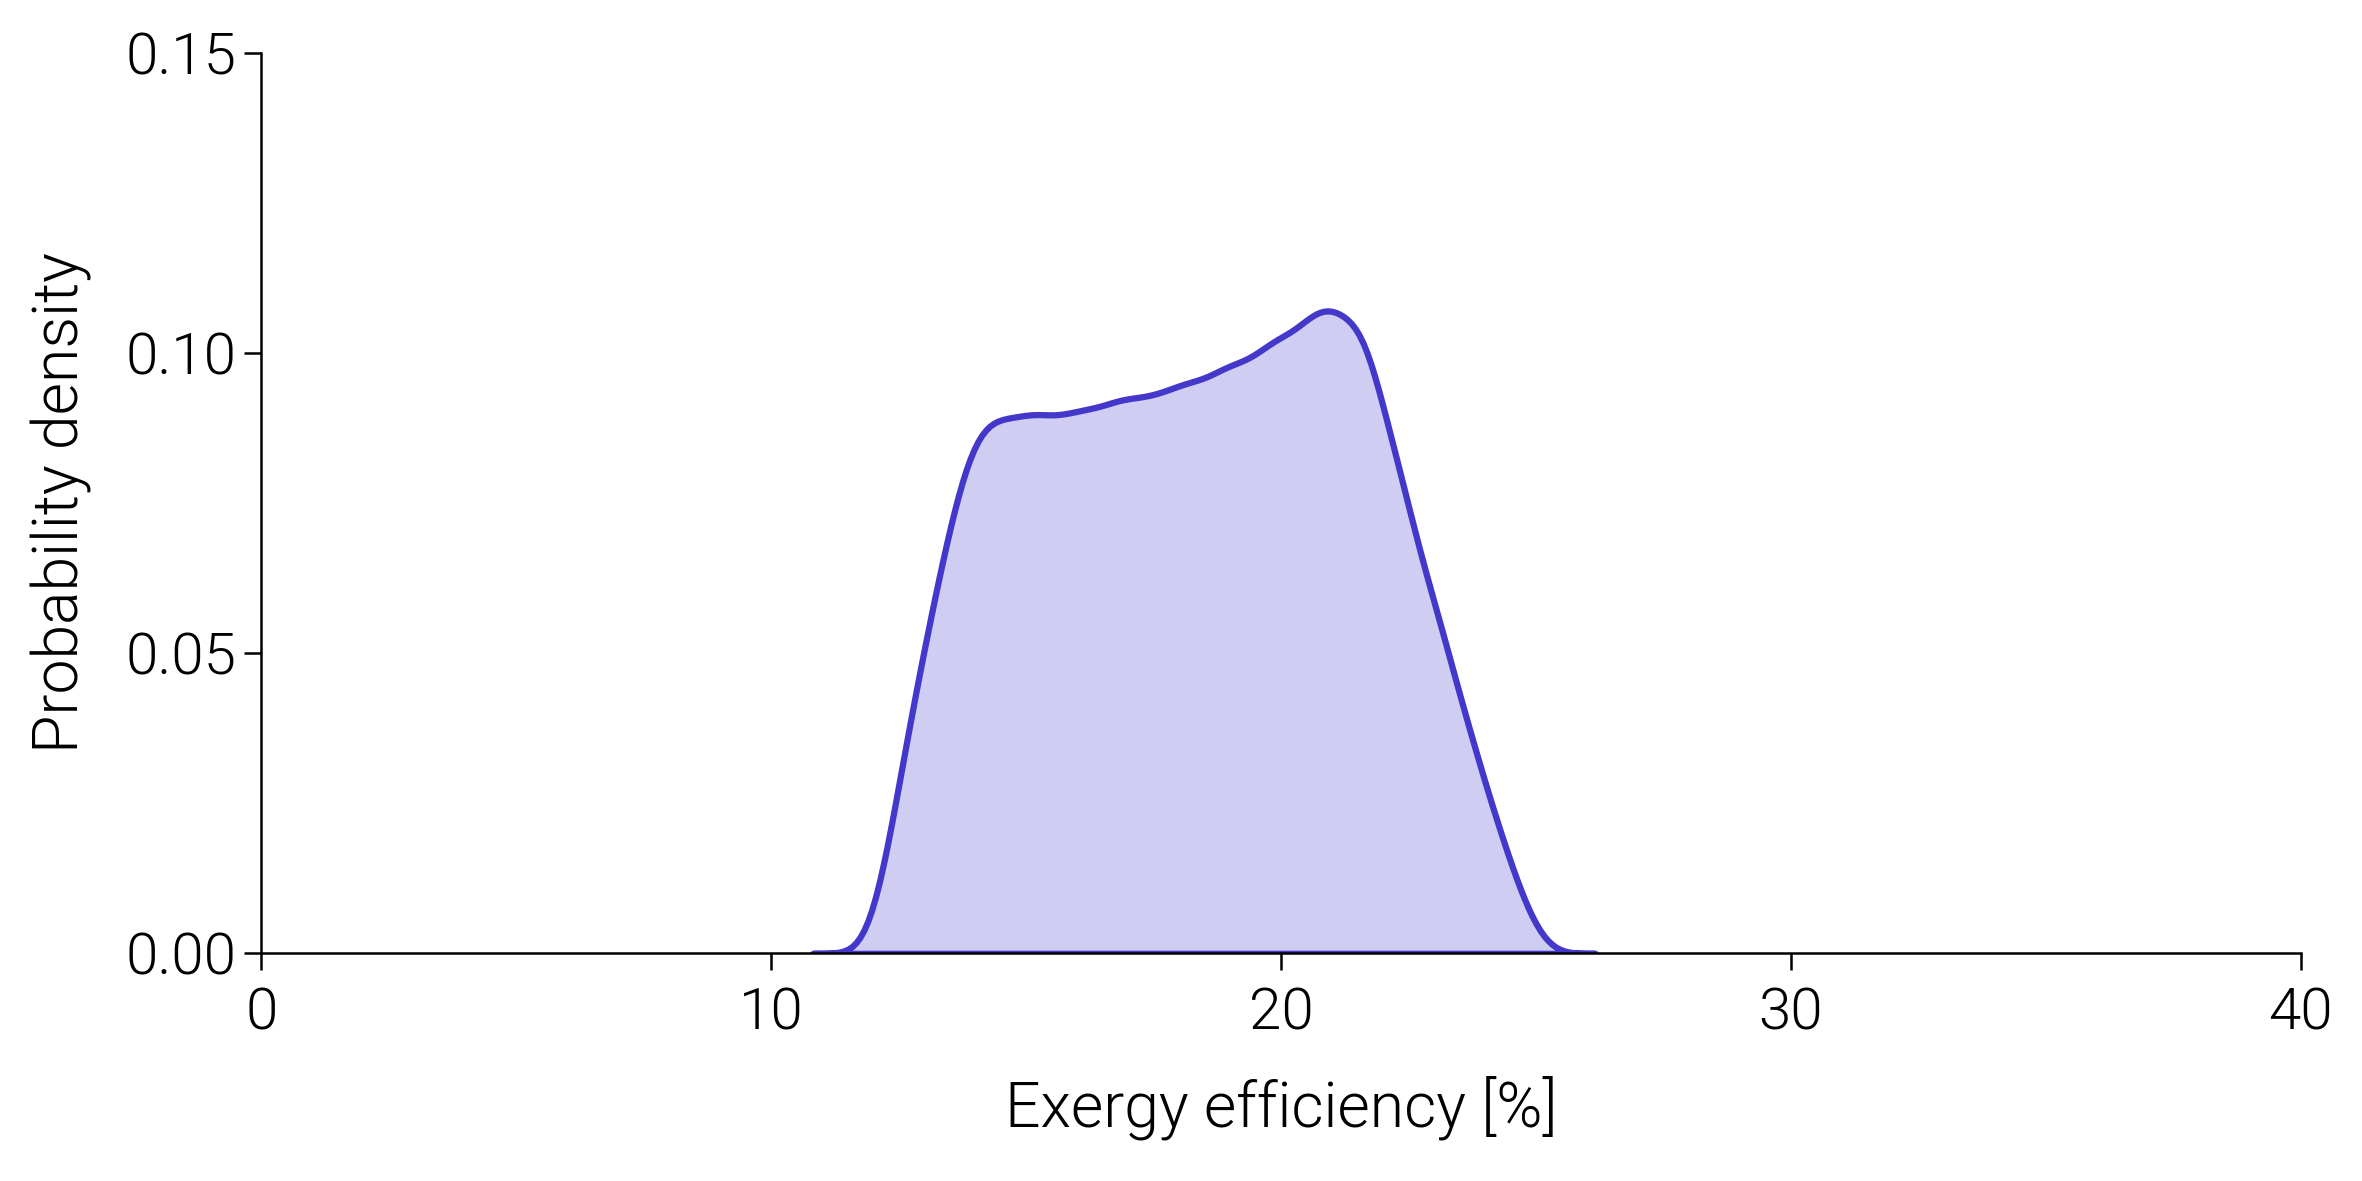
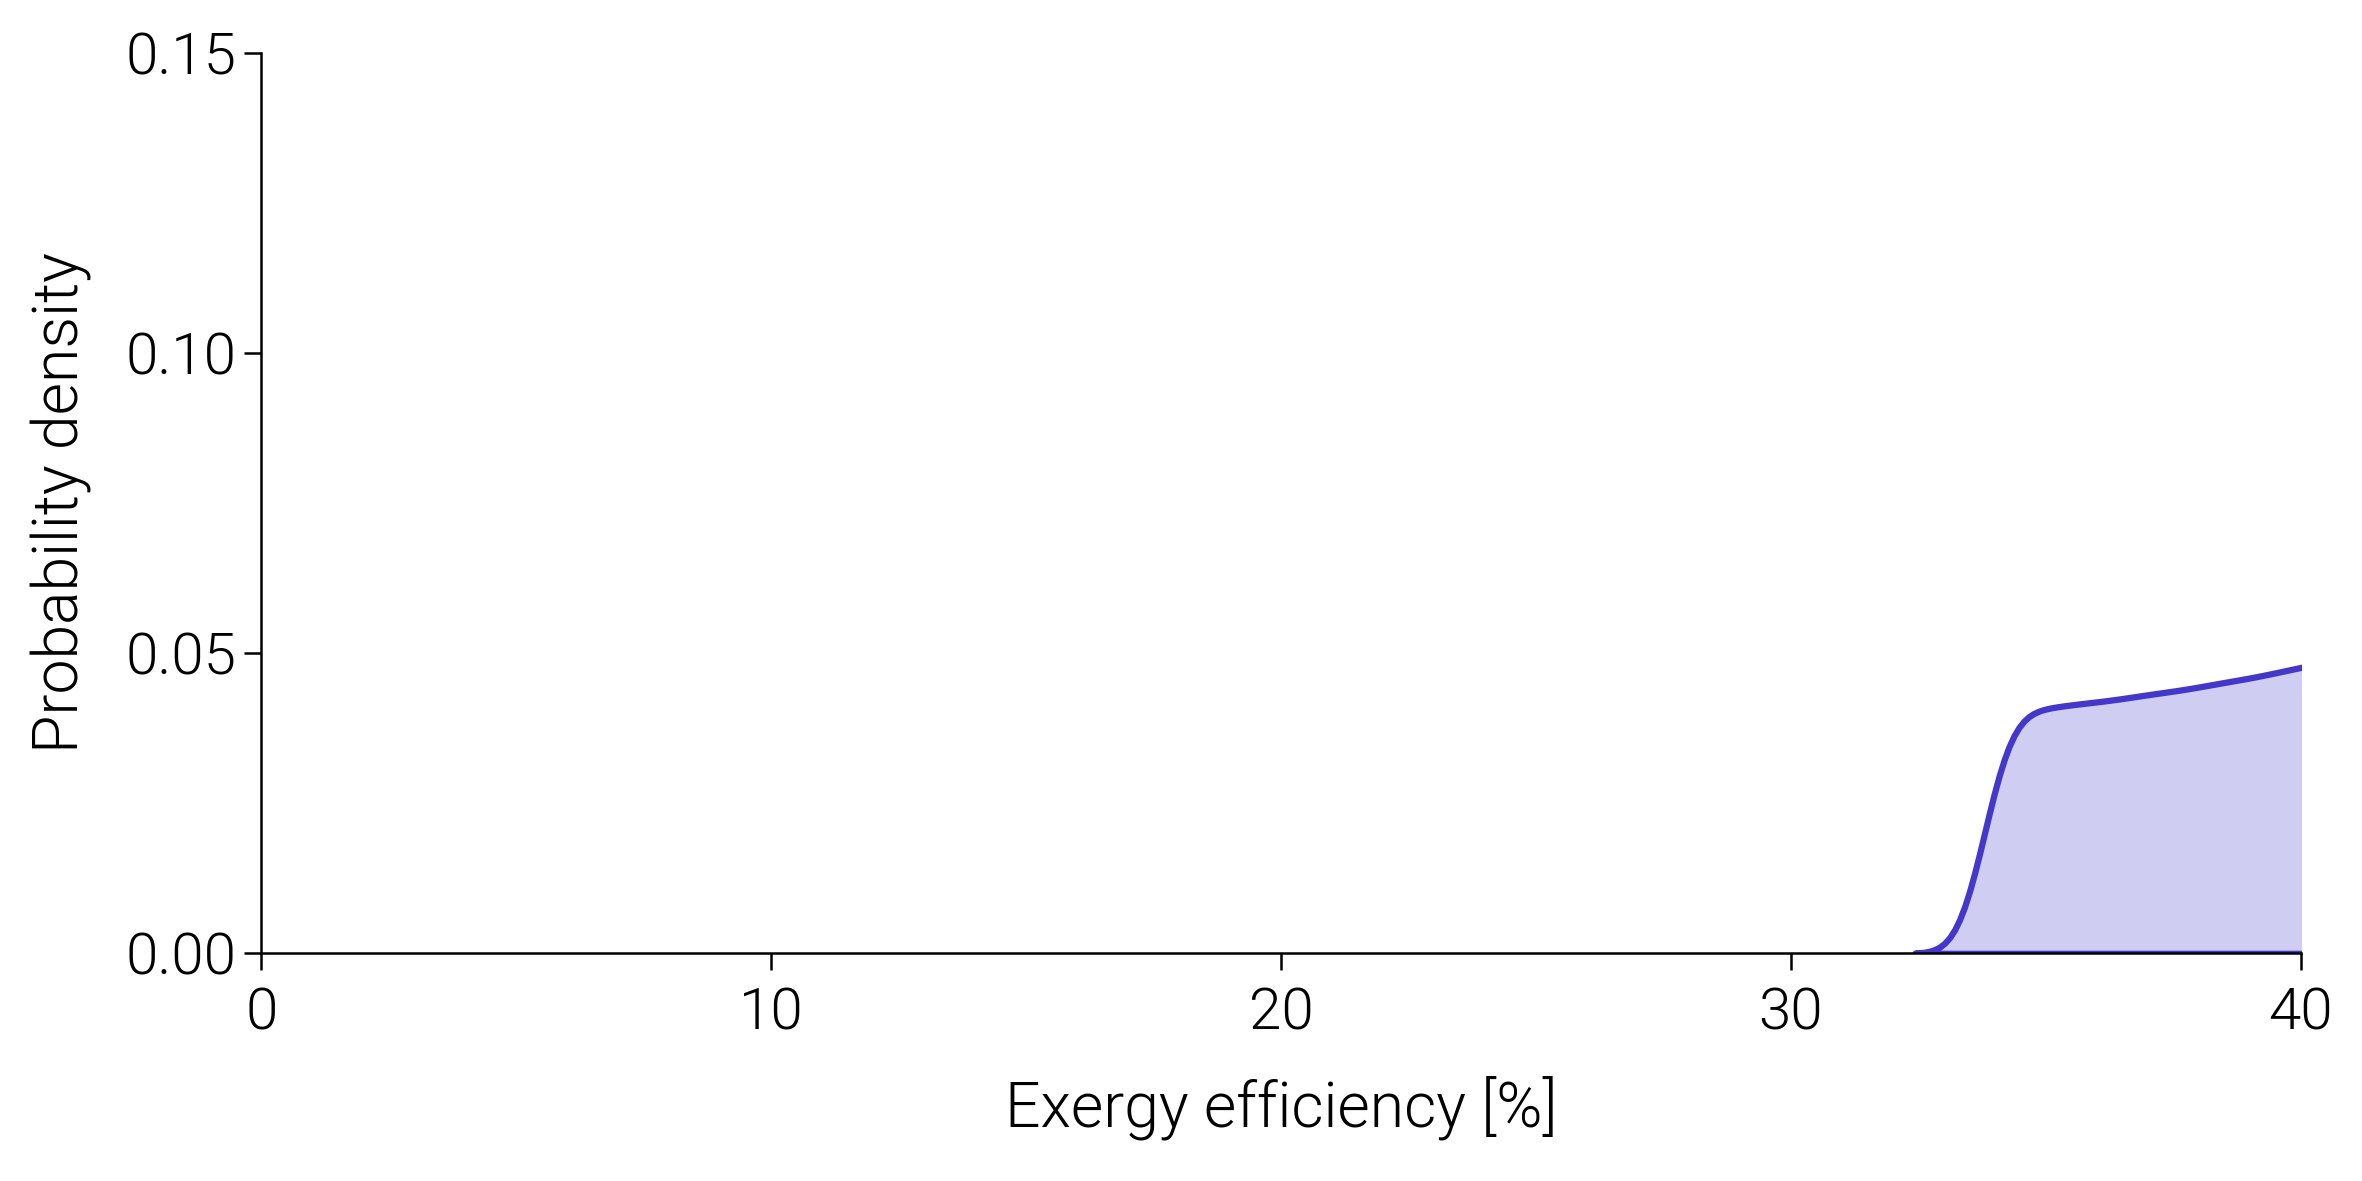
Refactor ASHP COP calculations and update simulation parameters for enhanced performance

Changed region(s): [[0.34, 0.2439, 0.6799, 0.823], [0.8036, 0.5487, 0.989, 0.823]]

diff --git a/ASHP_Monte.py b/ASHP_Monte.py
@@ -12,8 +12,8 @@ import dartwork_mpl as dm
 import seaborn as sns
 from scipy.stats import norm, uniform, triang, gamma
 import warnings
-from pprint import pprint
-
+warnings.filterwarnings("ignore", category=DeprecationWarning)
+warnings.filterwarnings("ignore", category=UserWarning)
 #%% 
 
 # 시뮬레이션 반복 횟수
@@ -21,56 +21,44 @@ num_simulations = 10000
 
 # 문제 정의
 problem = {
-    'num_vars': 4,
-    'names'   : ['Insulation thick [m]',  'Outdoor air temp [°C]', "Supply water temp [°C]", "COP [-]"],
+    'num_vars': 6,
+    'names'   : ['Load [W]', "dT_a_int [°C]", "dT_a_ext [°C]", "dT_r_int [°C]", "dT_r_ext [°C]", "T_a_room [°C]"],
     'bounds'  : [
-        [0.01, 0.1],    # x_ins      : 단열 두께 (m)
-        [enex.C2K(-10), enex.C2K(10)],    # T_oa: 실외 온도 (°C)
-        [enex.C2K(4), enex.C2K(10)],    # T_sw: 상수도 온도 (°C)
-        [1.5, 2.5],    # COP: COP
-        [10000, 100000]  # Q (W)
+        [1000,10000],
+        [9,12], # https://georgebrazilhvac.com/blog/what-temperature-should-my-central-air-conditioner-be-putting-out#:~:text=Your%20personal%20comfort%20should%20always,when%20you%20set%20your%20thermostat
+        [9,12],
+        [15,20],
+        [15,20],    
+        [20,25]
     ],
-    'dists': ['unif', 'unif', 'unif', 'unif']  # 분포 형상 (균등, 삼각, 정규)
+    'dists': ['unif', 'unif', 'unif', 'unif', 'unif', 'unif']  # 분포 형상 (균등, 삼각, 정규)
 }
 
 # Saltelli 방법을 사용하여 샘플 생성 -> 최종 샘플 개수는 num_simulations * (num_vars + 2) = 10000 * (5 + 2) = 70000
 param_values = saltelli.sample(problem, num_simulations, calc_second_order=True)
 
 # 엑서지 효율 저장 리스트
-ex_eff_HPB = []
-cop_list = []
-T_r_ext_list = []
+ex_eff_ASHP = []
 
 # 몬테카를로 시뮬레이션 및 엑서지 효율 계산
 for i in range(param_values.shape[0]):  
     # enex.ElectricASHP 객체 생성
-    ASHP = enex.HeatPumpASHP()
+    ASHP = enex.AirSourceHeatPump_heating()
 
     # 확률 변수에서 추출한 변수 값들 할당
-    ASHP.x_ins              = param_values[i, 0]  # 단열 두께
-    ASHP.T0                 = param_values[i, 1]  # 대류 열전달 계수
-    ASHP.T_w_sup            = param_values[i, 2]  # 상수도 온도
-    ASHP.Q_w_serv          = param_values[i, 3]  # 상수도 온도
+    ASHP.Q_r_int  = param_values[i, 0]  
+    ASHP.dT_a_int = param_values[i, 1]  
+    ASHP.dT_a_ext = param_values[i, 2]  
+    ASHP.dT_r_int = param_values[i, 3] 
+    ASHP.dT_r_ext = param_values[i, 4]  
     
-    # COP calculation
-    dT = ASHP.T_w_tank - ASHP.T0 # 온수 탱크 온도와 실외 온도 차이
-    ASHP.COP_hp             = 5.06-0.05*dT +0.00006*(dT**2) # https://www.notion.so/betlab/Model-based-flexibility-assessment-of-a-residential-heat-pump-pool-1af6947d125d8037a108e85bb6985dee?pvs=4
-    
-    
-    cop_list.append(ASHP.COP_hp)
-    
-
     # 시스템 업데이트 수행
     ASHP.system_update()
-    T_r_ext_list.append(ASHP.T_r_ext)
 
     # 엑서지 효율 계산
-    X_w_serv = ASHP.Xout 
-    E_fan    = ASHP.exergy_balance["external unit"]["in"]["E_fan"]
-    E_cmp    = ASHP.exergy_balance["refrigerant loop"]["in"]["E_cmp"]
+    X_eff  = (ASHP.X_a_int_out - ASHP.X_a_ext_out)/(ASHP.E_cmp + ASHP.E_fan_ext + ASHP.E_fan_int)
+    ex_eff_ASHP.append(X_eff)
     
-    eta_exergy = X_w_serv / (E_fan + E_cmp)
-    ex_eff_HPB.append(eta_exergy)
 
 #%%
 # 데이터 시각화
@@ -86,7 +74,7 @@ for ridx in range(nrows):
         idx = ridx * ncols + cidx
 
         # Plot histogram
-        sns.kdeplot(np.array(ex_eff_HPB) * 100, ax=ax, color='tw.indigo:700', fill=True, linewidth=0.75)
+        sns.kdeplot(np.array(ex_eff_ASHP) * 100, ax=ax, color='tw.indigo:700', fill=True, linewidth=0.75)
 
         # tick limits 
         ax.set_xlim(xmin - xmar, xmax + xmar)
@@ -97,7 +85,7 @@ for ridx in range(nrows):
         ax.set_yticks(np.arange(ymin, ymax + yint, yint))
         
         # print x, y range
-        print(f"Exergy efficiency range: {min(ex_eff_HPB)*100:.2f} ~ {max(ex_eff_HPB)*100:.2f}")
+        print(f"Exergy efficiency range: {min(ex_eff_ASHP)*100:.2f} ~ {max(ex_eff_ASHP)*100:.2f}")
         # print(f"y max: {max_frequency}")
         
 
@@ -118,15 +106,14 @@ dm.util.save_and_show(fig)
 plt.close()
 
 # print
-print(f"Exergy efficiency range: {min(ex_eff_HPB)*100:.2f} ~ {max(ex_eff_HPB)*100:.2f}")
-print(f"cop range: {min(cop_list):.2f} ~ {max(cop_list):.2f}")
+print(f"Exergy efficiency range: {min(ex_eff_ASHP)*100:.2f} ~ {max(ex_eff_ASHP)*100:.2f}")
 print(f"\n\n{'='*10} Problem setting {'='*10}\n")
 
 
 
 #%% 
 # Sobol sensitivity analysis
-Si = sobol.analyze(problem, np.array(ex_eff_EB), print_to_console=False)
+Si = sobol.analyze(problem, np.array(ex_eff_ASHP), print_to_console=False)
 
 # Visualize first-order sensitivity indices
 fig, ax = plt.subplots(figsize=(dm.cm2in(10), dm.cm2in(5)), dpi=600)

diff --git a/src/en_system_ex_analysis/En_system_intergrated.py b/src/en_system_ex_analysis/En_system_intergrated.py
@@ -302,32 +302,23 @@ class Pump:
         dm.save_and_show(fig)
 
 @dataclass
-class COP_by_PLR_cooling:
-    def __post_init__(self):
-        self.COP_ref = 4.0
-        self.max_cooling_load = 25000
-
-    def calculate_COP(self, T_a_int_out, T_a_ext_in, Q_r_int):
-        self.T_a_int_out = T_a_int_out
-        self.T_a_ext_in = T_a_ext_in
-        self.Q_r_int = Q_r_int
-        self.PLR = Q_r_int / self.max_cooling_load
-        EIR_by_T = 0.38 + 0.02 * cu.K2C(self.T_a_int_out) + 0.01 * cu.K2C(self.T_a_ext_in)
-        EIR_by_PLR = 0.22 + 0.50 * self.PLR + 0.26 * self.PLR**2
-        COP = self.PLR * self.COP_ref / (EIR_by_T * EIR_by_PLR)
-        return COP
+def calculate_ASHP_cooling_COP(self, T_a_int_out, T_a_ext_in, Q_r_int, Q_r_max, COP_ref):
+    self.T_a_int_out = T_a_int_out
+    self.T_a_ext_in = T_a_ext_in
+    self.Q_r_int = Q_r_int
+    self.PLR = Q_r_int / Q_r_max
+    EIR_by_T = 0.38 + 0.02 * cu.K2C(self.T_a_int_out) + 0.01 * cu.K2C(self.T_a_ext_in)
+    EIR_by_PLR = 0.22 + 0.50 * self.PLR + 0.26 * self.PLR**2
+    COP = self.PLR * COP_ref / (EIR_by_T * EIR_by_PLR)
+    return COP
 
 @dataclass
-class COP_by_PLR_heating:
-    def __post_init__(self):
-        self.max_heating_load = 27500
-
-    def calculate_COP(self, T_0, Q_r_int):
-        self.T_0 = T_0
-        self.Q_r_int = Q_r_int
-        self.PLR = Q_r_int / self.max_heating_load
-        COP = -7.46 * (self.PLR - 0.0047 * cu.K2C(self.T_0) - 0.477)**2 + 0.0941 * cu.K2C(self.T_0) + 4.34
-        return COP
+def calculate_ASHP_heating_COP(self, T_0, Q_r_int, Q_r_max):
+    self.T_0 = T_0
+    self.Q_r_int = Q_r_int
+    self.PLR = Q_r_int / Q_r_max
+    COP = -7.46 * (self.PLR - 0.0047 * cu.K2C(self.T_0) - 0.477)**2 + 0.0941 * cu.K2C(self.T_0) + 4.34
+    return COP
 
 @dataclass
 class ElectricBoiler:
@@ -1340,30 +1331,34 @@ class AirSourceHeatPump_heating:
         self.fan_ext = Fan().fan2
 
         # COP
-        self.COP_model = COP_by_PLR_heating()
+        self.Q_r_max = 10000 # maximum heating capacity [W]
 
         # temperature
-        self.dT_a        = 10 # internal unit air temperature difference 
-        self.dT_r        = 15 # refrigerant temperature difference 
         self.T_0         = cu.C2K(0) # environmental temperature [K]
-        self.T_a_int_in  = cu.C2K(20) # internal unit air inlet temperature [K]
+        self.T_a_room   = cu.C2K(20) # room air temperature [K]
+        
+        self.dT_a_int    = 10 # internal unit air temperature difference
+        self.dT_a_ext    = 10 # external unit air temperature difference
 
+        self.dT_r_int       = 15 # refrigerant temperature difference 
+        self.dT_r_ext       = 15 # refrigerant temperature difference
+        
         # load
         self.Q_r_int = 10000 # [W]
 
     def system_update(self):
-
         # temperature
-        self.T_a_int_out = self.T_a_int_in + self.dT_a # internal unit air outlet temperature [K]
+        self.T_a_int_in    = self.T_a_room 
+        self.T_a_int_out = self.T_a_int_in + self.dT_a_int # internal unit air outlet temperature [K]
 
         self.T_a_ext_in  = self.T_0 # external unit air inlet temperature [K]
-        self.T_a_ext_out = self.T_a_ext_in - self.dT_a # external unit outlet air temperature [K]
+        self.T_a_ext_out = self.T_a_ext_in - self.dT_a_ext # external unit outlet air temperature [K]
 
-        self.T_r_int = self.T_a_int_in + self.dT_r # internal unit refrigerant temperature [K]
-        self.T_r_ext = self.T_a_ext_in - self.dT_r # external unit refrigerant temperature [K]
+        self.T_r_int = self.T_a_int_in + self.dT_r_int # internal unit refrigerant temperature [K]
+        self.T_r_ext = self.T_a_ext_in - self.dT_r_ext # external unit refrigerant temperature [K]
 
         # others
-        self.COP     = self.COP_model.calculate_COP(self.T_0, self.Q_r_int) # COP [-]
+        self.COP     = calculate_ASHP_heating_COP(self.T_0, self.Q_r_int, self.Q_r_max) # COP [-]
         self.E_cmp   = self.Q_r_int / self.COP # compressor power input [W]
         self.Q_r_ext = self.Q_r_int - self.E_cmp # heat transfer from external unit to refrigerant [W]
 
